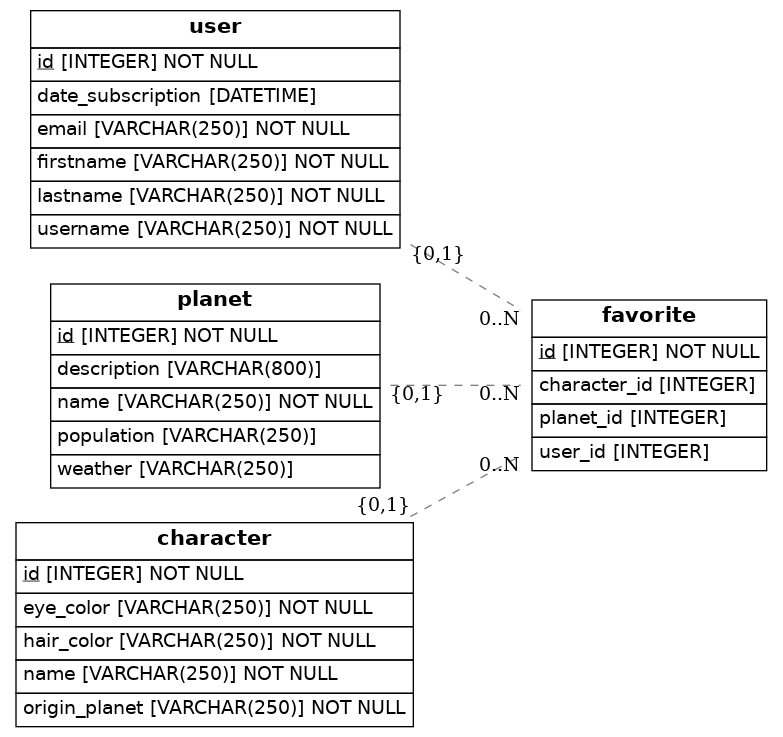
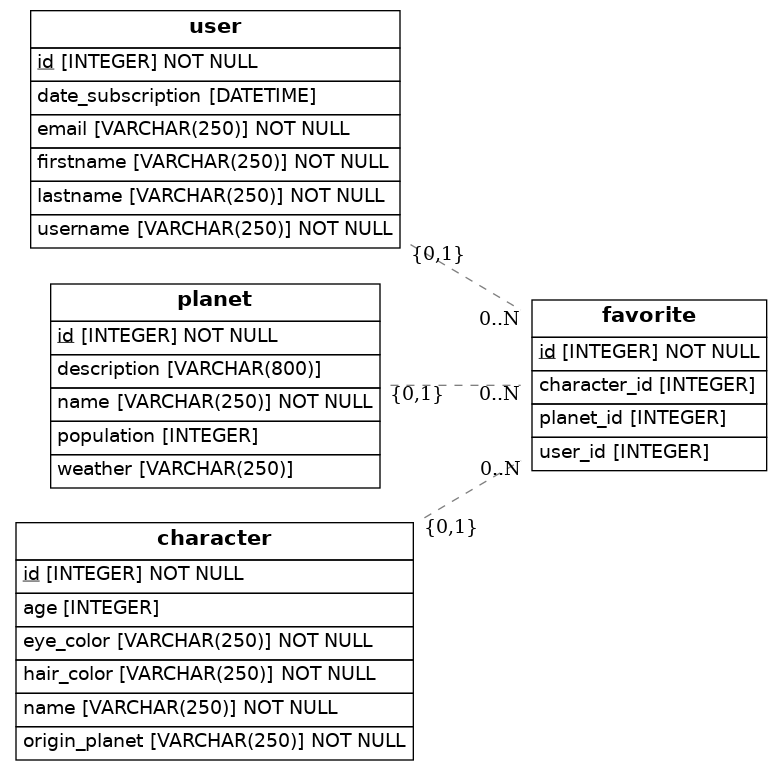
pronto

Changed region(s): [[0.0307, 0.0, 0.613, 0.9986], [0.613, 0.3745, 0.9808, 0.6554]]

diff --git a/src/models.py b/src/models.py
@@ -1,18 +1,17 @@
 import os
 import sys
-from sqlalchemy import Column, ForeignKey, Integer, String, Enum, DateTime
+from sqlalchemy import Column, ForeignKey, Integer, String, DateTime
 from sqlalchemy.orm import relationship, declarative_base
 from sqlalchemy import create_engine
 from eralchemy2 import render_er
 from sqlalchemy.sql import func
-from enum import Enum as PyEnum
+
 
 Base = declarative_base()
 
 class User(Base):
     __tablename__ = 'user'
-    # Here we define columns for the table user
-    # Notice that each column is also a normal Python instance attribute.
+ 
     id = Column(Integer, primary_key=True)
     username = Column(String(250), nullable=False)
     firstname = Column(String(250), nullable=False)
@@ -22,31 +21,29 @@ class User(Base):
 
 class Planet(Base):
     __tablename__ = 'planet'
-    # Here we define columns for the table address.
-    # Notice that each column is also a normal Python instance attribute.
+ 
     id = Column(Integer, primary_key=True)
     name = Column(String(250), nullable=False)
     description = Column(String(800))
     weather = Column(String(250))
-    population = Column(String(250))
+    population = Column(Integer)
     
     
     
 
 class Character(Base):
     __tablename__ = 'character'
-    # Here we define columns for the table address.
-    # Notice that each column is also a normal Python instance attribute.
+   
     id = Column(Integer, primary_key=True)
     name = Column(String(250), nullable=False)
+    age = Column(Integer)
     origin_planet = Column(String(250), nullable=False)
     eye_color = Column(String(250), nullable=False)
     hair_color = Column(String(250), nullable=False)
 
 class Favorite(Base):
     __tablename__ = 'favorite'
-    # Here we define columns for the table address.
-    # Notice that each column is also a normal Python instance attribute.
+   
     id = Column(Integer, primary_key=True)
     user_id = Column(Integer, ForeignKey('user.id'))
     character_id = Column(Integer, ForeignKey('character.id'))
